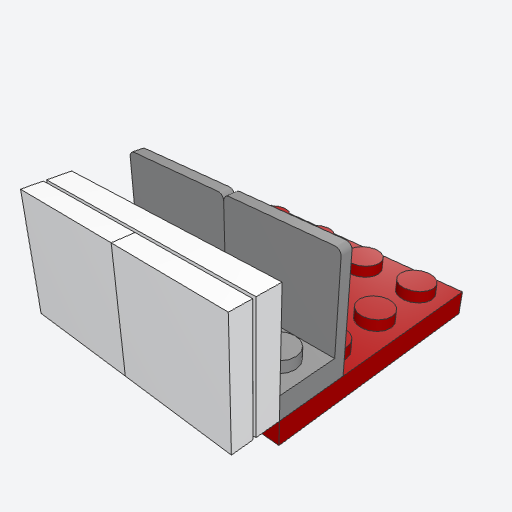
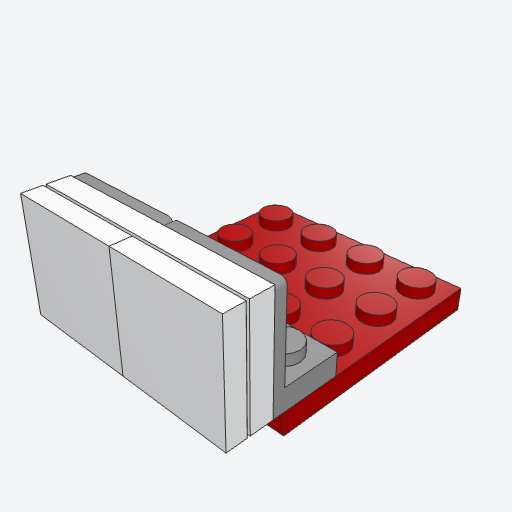
3D: Technique examples are checked standing on their lowest level; fixes floating parts in headlights, bracket_side_panel, and grass_edge

diff --git a/data/techniques/bracket_side_panel.py b/data/techniques/bracket_side_panel.py
@@ -4,7 +4,9 @@ whose studs face out.
 
 m.use("bracket_side_panel", x, y, z, length=4, color="Light Bluish Gray", panel="White", title="Side panel") puts
 brackets 1 x 2 - 2 x 2 up (99207) along the left side (-y) of a chassis at z, `length` studs along x from x (2 each),
-their studs out, and on them a 2-tall panel: a 2 x length plate on its side, tiled. Returns nothing.
+their studs out, and on them a 2-tall panel: a 2 x length plate on its side, tiled. A bracket's upright face stands
+a fifth of a stud out from its base, so the brackets' bases sit on the chassis edge's studs (y to y + 1) and the panel
+stands 0.6 studs out from y. Returns nothing.
 """
 
 from emmet_dsl import Rot
@@ -28,11 +30,12 @@ def build(
         )
     with m.step(f"{title}: brackets"):
         for a in range(0, length, 2):
-            m.add("99207", color, at=(x + a, y, z), rot=1)
+            # rot=3 turns the face to -y; the face stands 0.2 out in front of the base, which sits on y to y + 1.
+            m.add("99207", color, at=(x + a, y - 0.2, z), rot=3)
     with m.step(f"{title}: panel"):
-        m.add(PLATES[length], panel, at=(x, y - 0.4, z), rot=SIDE)
+        m.add(PLATES[length], panel, at=(x, y - 0.6, z), rot=SIDE)
         for a in range(0, length, 2):
-            m.add("3068b", panel, at=(x + a, y - 0.8, z), rot=SIDE)
+            m.add("3068b", panel, at=(x + a, y - 1.0, z), rot=SIDE)
 
 
 def example(m):

diff --git a/tests/it/tests/techniques.rs b/tests/it/tests/techniques.rs
@@ -189,6 +189,12 @@ fn the_doctrine_or_a_guide_names_every_technique() {
     );
 }
 
+/// Stands a technique's example on its lowest level, as a baseplate would. Loose on the table, a group of parts that
+/// floats beside something passes as a separate toy put there, which hid floating lenses in headlights and a floating
+/// panel in bracket_side_panel until 3D. (Model._ids is the DSL's own record of what was placed.)
+const GROUND: &str = "low = min(p.box[0][2] for p in m._ids.values())\n    \
+                      m.ground(*[i for i, p in m._ids.items() if p.box[0][2] <= low + 0.01])\n";
+
 fn builds_clean(name: &str) {
     let dir = temp_dir(&format!("technique-{name}")).join(name);
     let out = emmet()
@@ -204,7 +210,7 @@ fn builds_clean(name: &str) {
         format!(
             "from emmet_dsl import Model, model\nfrom emmet_dsl.techniques import {name} as technique\n\n\n@model\n\
              def example():\n    \"\"\"The technique on its own.\"\"\"\n    m = Model()\n    technique.example(m)\n    \
-             return m\n"
+             {GROUND}    return m\n"
         ),
     )
     .unwrap();

diff --git a/data/techniques/headlights.py b/data/techniques/headlights.py
@@ -32,7 +32,8 @@ def build(
     with m.step(title):
         for side in (y, y + width - 1):
             m.add("4070", color, at=(x, side, z), rot=2)
-            m.add("98138", lens, at=(x - 0.4, side, z + 0.5), rot=LENS)
+            # The headlight brick's front stud is set back in its face, so the tile seats 0.2 out, not a plate's 0.4.
+            m.add("98138", lens, at=(x - 0.2, side, z + 0.5), rot=LENS)
         if width > 2:
             m.row(Brick, color, at=(x, y + 1, z), length=width - 2, axis="y")
     return z + 3

diff --git a/data/techniques/grass_edge.py b/data/techniques/grass_edge.py
@@ -96,7 +96,7 @@ def build(m, x, y, z, length, depth=4, seed=1, color="Green", title="Grass"):
 def example(m):
     """Grass along the top of a short cliff 8 studs long."""
     with m.step("Cliff"):
-        m.add("3460", "Dark Bluish Gray", at=(0, 1, 0), rot=1)
+        m.add("3035", "Dark Bluish Gray", at=(0, 1, 0), rot=1)
         m.add("3008", "Dark Bluish Gray", at=(0, 1, 1), rot=1)
         m.add("3001", "Dark Bluish Gray", at=(0, 2, 1), rot=1)
         m.add("3001", "Dark Bluish Gray", at=(4, 2, 1), rot=1)
